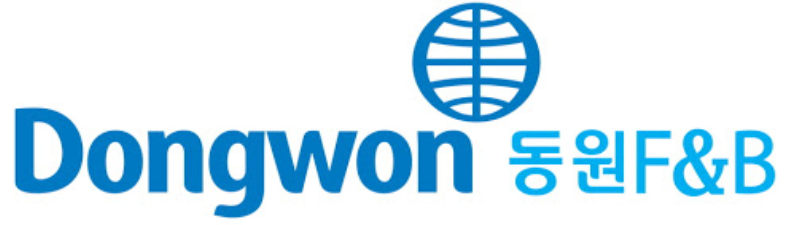
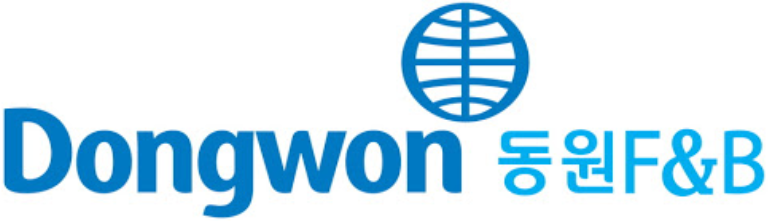
스튜디오 파트너 로고 사이즈 정리: 여백 트림 + 높이 통일 + 광학 보정
- 29개 로고 PNG의 흰 여백을 콘텐츠 bbox로 트림(Pillow)
- 카드 고정폭 → 로고에 맞춘 가변폭, 높이 기준으로 통일
- 컴팩트(정사각/뱃지형) 로고는 sqrt(2.2/ar) 비율로 살짝 키워 시각 크기 맞춤(눈높이 정렬)
- style.css v=3→v=4

Changed region(s): [[0.0, 0.0, 1.0, 1.0]]

diff --git a/studio/index.html b/studio/index.html
@@ -11,7 +11,7 @@
   <meta property="og:type" content="website" />
   <link rel="preconnect" href="https://cdn.jsdelivr.net" />
   <link rel="stylesheet" href="https://cdn.jsdelivr.net/gh/orioncactus/pretendard@v1.3.9/dist/web/static/pretendard-dynamic-subset.css" />
-  <link rel="stylesheet" href="css/style.css?v=3" />
+  <link rel="stylesheet" href="css/style.css?v=4" />
   <link rel="stylesheet" href="css/effector.css?v=12" />
 </head>
 <body>
@@ -253,6 +253,17 @@
     var pHalf = Math.ceil(PLOGOS.length / 2);
     fillP($('#ptrackA'), PLOGOS.slice(0, pHalf));
     fillP($('#ptrackB'), PLOGOS.slice(pHalf));
+    /* 로고 광학 보정: 높이를 기준으로 통일하되, 컴팩트(정사각/뱃지형) 로고는 살짝 키워 시각적 크기를 맞춤 */
+    function sizeLogo(im) {
+      if (!im.naturalWidth) return;
+      var vw = innerWidth, base = Math.min(38, Math.max(28, vw * 0.034));
+      var ar = im.naturalWidth / im.naturalHeight;
+      var fac = Math.min(1.35, Math.max(1, Math.sqrt(2.2 / ar)));
+      im.style.height = (base * fac).toFixed(1) + 'px';
+    }
+    var pImgs = $$('.partners img');
+    pImgs.forEach(function (im) { if (im.complete) sizeLogo(im); else im.addEventListener('load', function () { sizeLogo(im); }); });
+    var pRz; addEventListener('resize', function () { clearTimeout(pRz); pRz = setTimeout(function () { pImgs.forEach(sizeLogo); }, 150); }, { passive: true });
 
     /* review wall */
     var REV = [

diff --git a/studio/css/style.css b/studio/css/style.css
@@ -492,12 +492,13 @@ img { display: block; max-width: 100%; }
 .partners__marquee:hover .partners__track { animation-play-state: paused; }
 .plogo {
   display: flex; align-items: center; justify-content: center; flex: 0 0 auto;
-  width: clamp(260px,26vw,360px); height: clamp(100px,11vw,150px);
+  height: clamp(82px,8.6vw,104px); min-width: clamp(140px,14vw,168px); padding: 0 clamp(22px,2.6vw,36px);
   background: #fff; border: 1px solid var(--line); border-radius: 16px;
   transition: transform .3s var(--ease), box-shadow .3s var(--ease), border-color .3s;
 }
 .plogo:hover { transform: translateY(-5px); box-shadow: 0 22px 44px -24px rgba(23,21,15,.35); border-color: transparent; }
-.plogo img { max-width: 82%; max-height: 72%; object-fit: contain; filter: grayscale(1) opacity(.8); transition: filter .3s; }
+/* 로고는 '높이'만 통일, 카드 폭은 로고에 맞춰 가변 — 시각적 크기를 눈높이로 맞춤 */
+.plogo img { width: auto; height: clamp(28px,3.4vw,38px); max-width: 210px; object-fit: contain; filter: grayscale(1) opacity(.78); transition: filter .3s; }
 .plogo:hover img { filter: none; }
 @keyframes partnerSlide { from { transform: translateX(0); } to { transform: translateX(calc(-50% - 11px)); } }
 

diff --git a/studio/studio.html b/studio/studio.html
@@ -7,7 +7,7 @@
   <meta name="description" content="하오스튜디오는 촬영·영상·디자인·AI 디렉션까지, 콘텐츠로 브랜드를 완성하는 전문 스튜디오입니다. 소통의 가치를 생각하는 하오스튜디오를 소개합니다." />
   <link rel="preconnect" href="https://cdn.jsdelivr.net" />
   <link rel="stylesheet" href="https://cdn.jsdelivr.net/gh/orioncactus/pretendard@v1.3.9/dist/web/static/pretendard-dynamic-subset.css" />
-  <link rel="stylesheet" href="css/style.css?v=3" />
+  <link rel="stylesheet" href="css/style.css?v=4" />
   <link rel="stylesheet" href="css/effector.css?v=12" />
 </head>
 <body>

diff --git a/studio/portfolio.html b/studio/portfolio.html
@@ -7,7 +7,7 @@
   <meta name="description" content="하오스튜디오 제품·음식·뷰티·건강식품 촬영 포트폴리오. 실제 진행한 촬영 작업을 카테고리별로 확인하세요." />
   <link rel="preconnect" href="https://cdn.jsdelivr.net" />
   <link rel="stylesheet" href="https://cdn.jsdelivr.net/gh/orioncactus/pretendard@v1.3.9/dist/web/static/pretendard-dynamic-subset.css" />
-  <link rel="stylesheet" href="css/style.css?v=3" />
+  <link rel="stylesheet" href="css/style.css?v=4" />
   <link rel="stylesheet" href="css/effector.css?v=12" />
 </head>
 <body>
